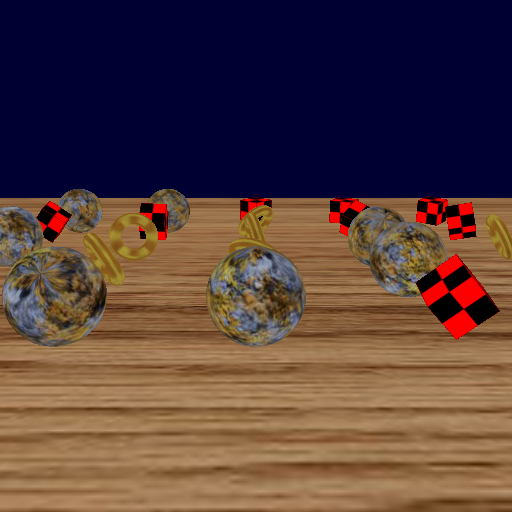
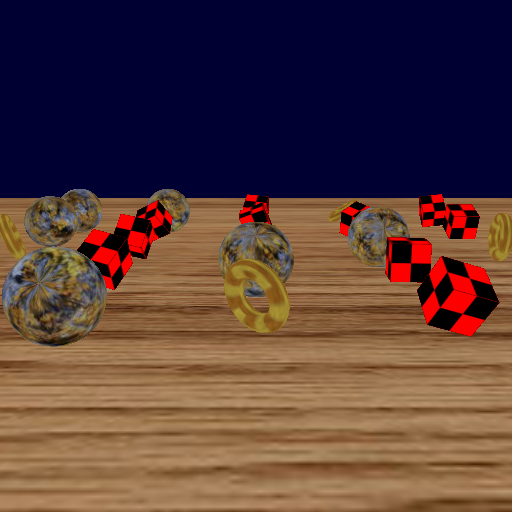
fix random gen in test

Changed region(s): [[0.0, 0.3438, 0.375, 0.6875], [0.625, 0.375, 1.0, 0.6562], [0.4062, 0.375, 0.625, 0.6875]]

diff --git a/main/tests9.cpp b/main/tests9.cpp
@@ -356,8 +356,8 @@ bool test55_clear_scene()
       mat4x4_identity(mRes);
 
       mat4x4_translate(mTranslate, xCoord, 0.5f, yCoord);
-      mat4x4_rotate_X(mRot1, mRot1, rnd(0.0f, 360.0f)*DEG_TO_RAD);
-      mat4x4_rotate_Y(mRot1, mRot1, rnd(0.0f, 360.0f)*DEG_TO_RAD*0.5f);
+      mat4x4_rotate_X(mRot1, mRot1, simplerandom::rnd(rgen, 0.0f, 360.0f)*DEG_TO_RAD);
+      mat4x4_rotate_Y(mRot1, mRot1, simplerandom::rnd(rgen, 0.0f, 360.0f)*DEG_TO_RAD*0.5f);
       mat4x4_mul(mRes, mTranslate, mRot1);
       mat4x4_transpose(matrixT, mRes); // this fucking math library swap rows and columns
 
@@ -387,8 +387,8 @@ bool test55_clear_scene()
       mat4x4_identity(mRes);
 
       mat4x4_translate(mTranslate, xCoord, 0.5f, yCoord);
-      mat4x4_rotate_X(mRot1, mRot1, rnd(0.0f, 360.0f)*DEG_TO_RAD);
-      mat4x4_rotate_Y(mRot1, mRot1, rnd(0.0f, 360.0f)*DEG_TO_RAD*0.5f);
+      mat4x4_rotate_X(mRot1, mRot1, simplerandom::rnd(rgen, 0.0f, 360.0f)*DEG_TO_RAD);
+      mat4x4_rotate_Y(mRot1, mRot1, simplerandom::rnd(rgen, 0.0f, 360.0f)*DEG_TO_RAD*0.5f);
       mat4x4_mul(mRes, mTranslate, mRot1);
       mat4x4_transpose(matrixT, mRes); // this fucking math library swap rows and columns
 

diff --git a/hydra_api/HR_AccumImageLinux.cpp b/hydra_api/HR_AccumImageLinux.cpp
@@ -66,8 +66,8 @@ SharedAccumImageLinux::~SharedAccumImageLinux()
 void SharedAccumImageLinux::Free()
 {
   sem_close(m_mutex);
-  if(m_ownThisResource)
-    sem_unlink(m_mutexName.c_str());
+  //if(m_ownThisResource)
+  sem_unlink(m_mutexName.c_str());
   
   m_mutex = nullptr;
 
@@ -79,8 +79,8 @@ void SharedAccumImageLinux::Free()
     close(m_buffDescriptor);
   m_buffDescriptor = -1;
   
-  if(m_ownThisResource)
-    shm_unlink(m_shmemName.c_str());
+  //if(m_ownThisResource)
+  shm_unlink(m_shmemName.c_str());
 
   m_msgSend = nullptr;
   m_msgRcv  = nullptr;

diff --git a/main/main.cpp b/main/main.cpp
@@ -91,12 +91,13 @@ int main(int argc, const char** argv)
   
   try
   {
-    run_all_api_tests();
+    // run_all_api_tests();
 	  // run_all_geo_tests();
     // run_all_lgt_tests();
     // run_all_mtl_tests();
     // run_all_ipp_tests();
 
+    std::cout << test55_clear_scene() << std::endl;
     // std::cout << test41_load_library_basic() << std::endl;
 
     //test35_cornell_with_light();

diff --git a/hydra_api/SystemUnix.cpp b/hydra_api/SystemUnix.cpp
@@ -143,8 +143,8 @@ void hr_free_system_mutex(HRSystemMutex*& a_mutex) // logic of this function is 
     return;
   
   sem_close(a_mutex->mutex);
-  if(a_mutex->owner)
-    sem_unlink(a_mutex->name.c_str());
+  //if(a_mutex->owner)
+  sem_unlink(a_mutex->name.c_str());
   
   delete a_mutex;
   a_mutex = nullptr;

diff --git a/hydra_api/VirtualBuffer.cpp b/hydra_api/VirtualBuffer.cpp
@@ -272,8 +272,8 @@ void VirtualBuffer::Destroy()
   if (!gDebugMode)
   {
     munmap(m_data, m_totalSizeAllocated);
-    if(m_owner)
-      shm_unlink(shmemName.c_str());
+    //if(m_owner)
+    shm_unlink(shmemName.c_str());
     close(m_fileDescriptor);
   }
 #endif
